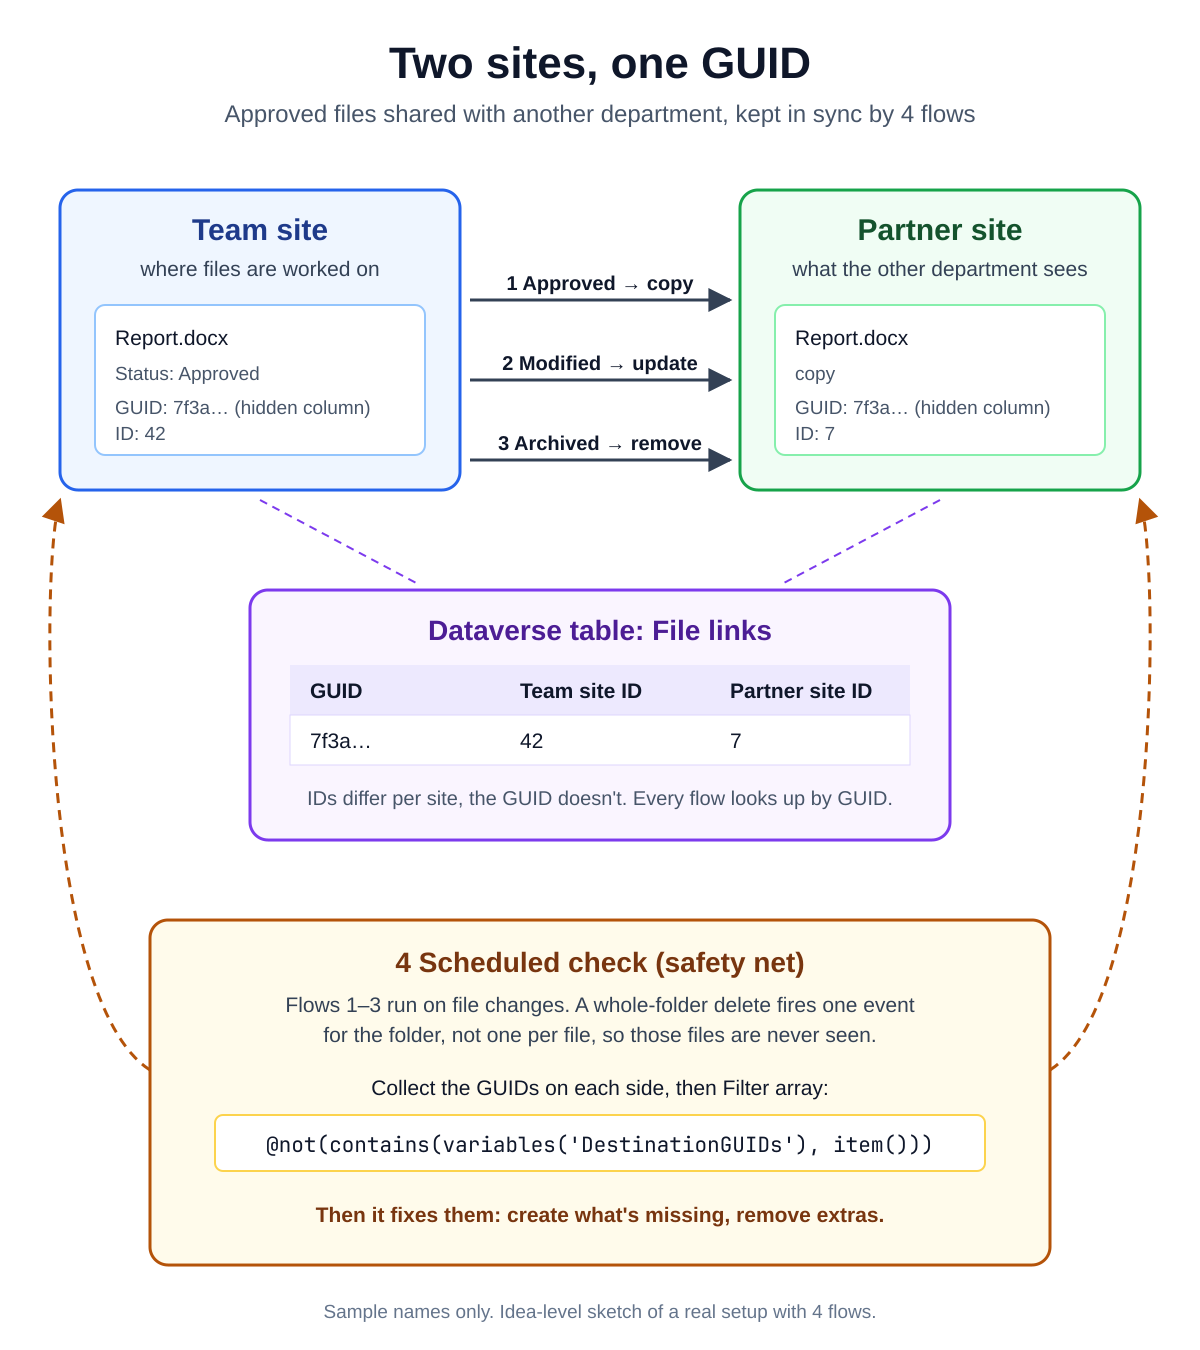
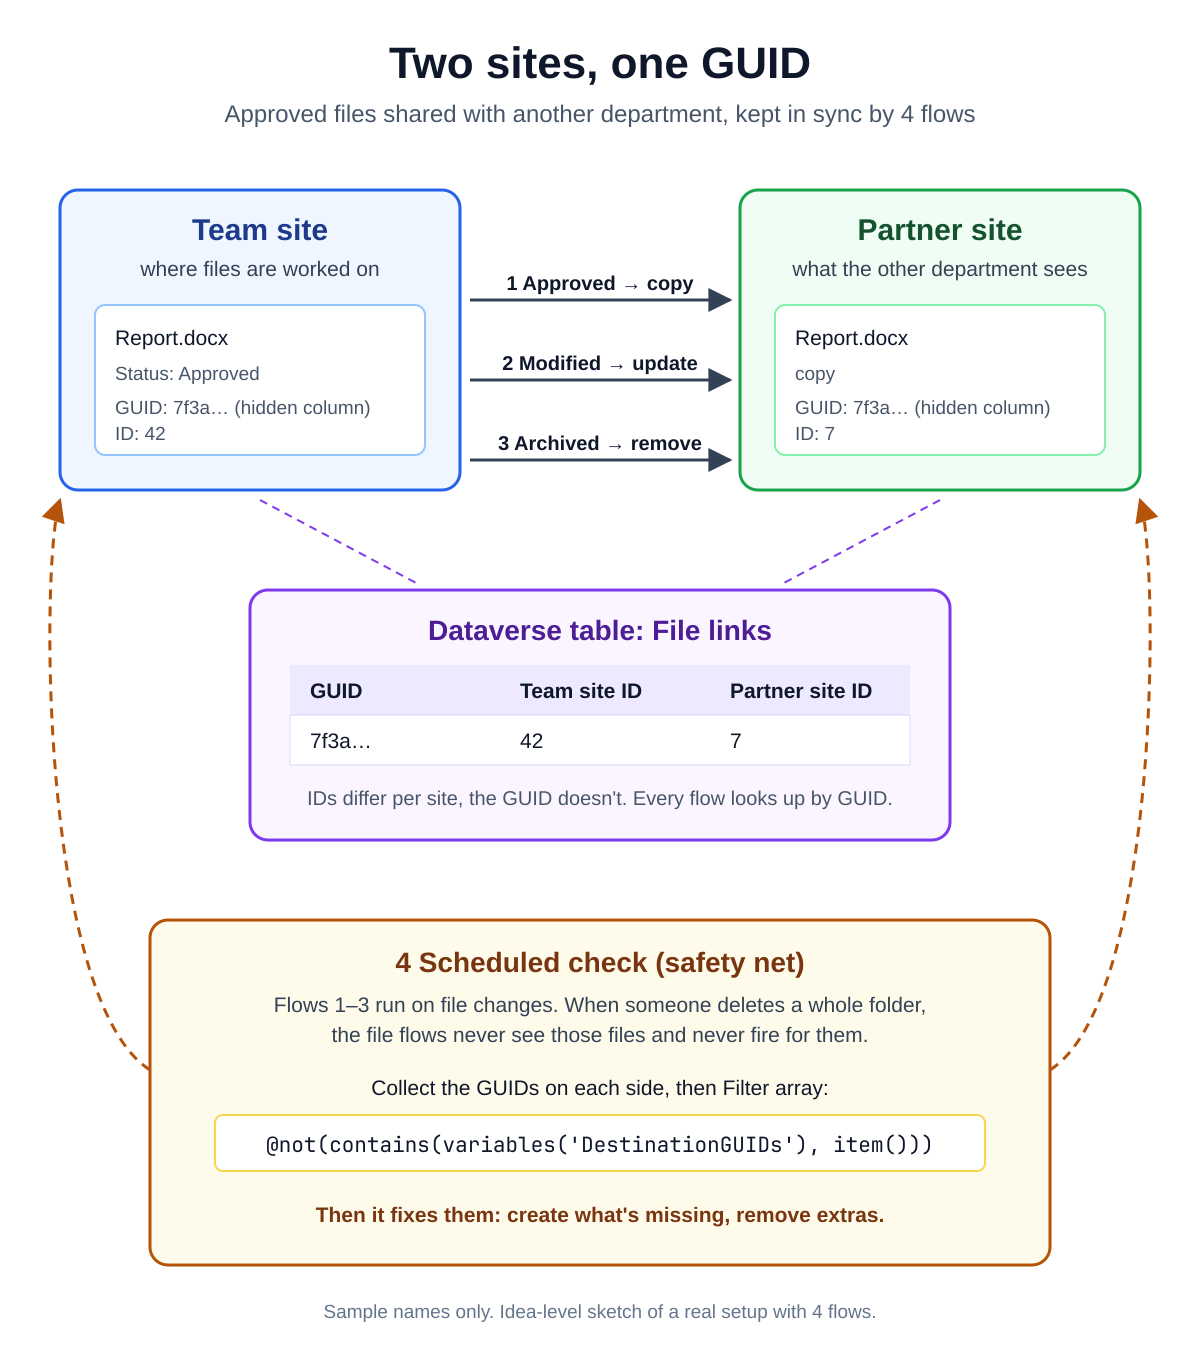
006: align folder-level wording with the post

Changed region(s): [[0.2467, 0.7156, 0.7708, 0.7778]]

diff --git a/006-guid-sync-architecture/README.md b/006-guid-sync-architecture/README.md
@@ -27,9 +27,8 @@ to a separate partner site; when the original is **archived or deleted**, the co
    so the partner site always matches the team site
 
 ## Why the scheduled check
-Flows 1–3 run on file changes. Deleting a whole folder fires the delete trigger **once for the folder**, not once
-per file ([Microsoft docs](https://learn.microsoft.com/en-us/sharepoint/dev/business-apps/power-automate/sharepoint-connector-actions-triggers)),
-so those files are never seen by the file-level flows.
+Flows 1–3 run on file changes. When someone works at folder level, for example deletes a whole folder, the file
+flows never see those files and never fire for them. The scheduled check catches what they miss.
 
 ## Comparing the two sides by GUID (no nested loops)
 
